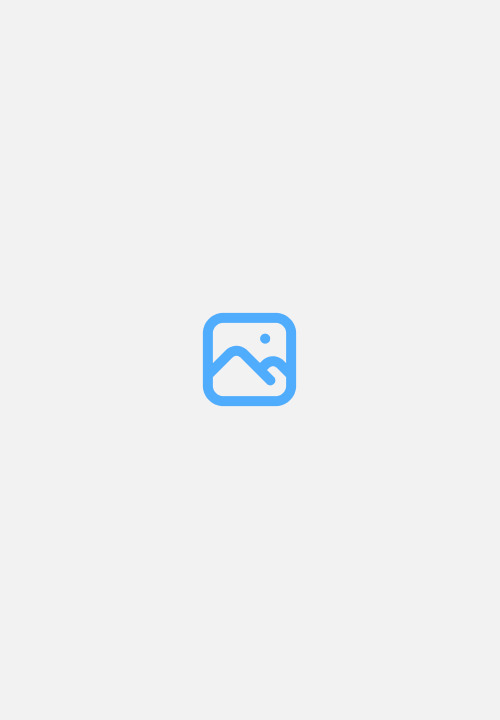
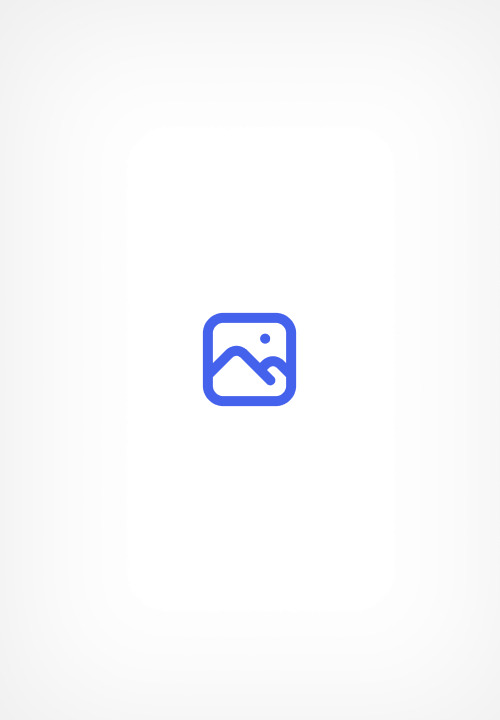
Dev: add styles

Changed region(s): [[0.39, 0.4278, 0.6, 0.5806]]

diff --git a/lib/search/search_delegate.dart b/lib/search/search_delegate.dart
@@ -1,5 +1,4 @@
 import 'package:flutter/material.dart';
-import 'package:movies_app/theme/app_theme.dart';
 import 'package:movies_app/providers/movie_provider.dart';
 import 'package:provider/provider.dart';
 import 'package:movies_app/models/models.dart';
@@ -12,7 +11,7 @@ class MovieSearchDelegate extends SearchDelegate {
   List<Widget> buildActions(BuildContext context) {
     return [
       IconButton(
-        icon: Icon(Icons.clear),
+        icon: const Icon(Icons.clear),
         onPressed: () => query = '',
       )
     ];
@@ -22,29 +21,23 @@ class MovieSearchDelegate extends SearchDelegate {
   Widget buildLeading(BuildContext context) {
     return IconButton(
       onPressed: () => close(context, null),
-      icon: Icon(Icons.arrow_back_rounded),
+      icon: const Icon(Icons.arrow_back_rounded),
     );
   }
 
   @override
   Widget buildResults(BuildContext context) {
     return Text("my build results",
-        style: TextStyle(color: AppTheme.gray));
+        style: Theme.of(context).textTheme.bodyText1);
   }
 
   Widget _emptyContainer() {
-    return Column(
-      children: const[
-        Center(
-          child: Icon(
-            Icons.movie_creation_outlined,
-            color: Colors.black38,
-            size: 130.0,
-          ),
-
-        ),
-        Text("No escribiste nada")
-      ],
+    return const Center(
+      child: Icon(
+        Icons.movie_creation_outlined,
+        color: Colors.black38,
+        size: 130.0,
+      ),
     );
   }
 
@@ -55,48 +48,42 @@ class MovieSearchDelegate extends SearchDelegate {
     }
 
     final moviesProvider = Provider.of<MoviesProvider>(context, listen: false);
-    
-  
+
     return FutureBuilder(
       future: moviesProvider.searchMovies(query),
       builder: (_, AsyncSnapshot<List<Result>> snapshot) {
-        print(snapshot);
         if (!snapshot.hasData) {
           return _emptyContainer();
-        }else{
-	  final movies = snapshot.data!;
+        } else {
+          final movies = snapshot.data!;
           return ListView.builder(
-	    itemBuilder: (context, index)=> _MovieItem(movies[index]),
-	    itemCount: movies.length,
-	  );
+            itemBuilder: (context, index) => _MovieItem(movies[index]),
+            itemCount: movies.length,
+          );
         }
       },
     );
   }
 }
 
-class _MovieItem extends StatelessWidget{
+class _MovieItem extends StatelessWidget {
   final Result movie;
   const _MovieItem(this.movie);
 
   @override
-  Widget build(BuildContext context){
+  Widget build(BuildContext context) {
     return ListTile(
-        leading: FadeInImage(
-	  placeholder: AssetImage("assets/no-image.jpg"),
-	  image: NetworkImage( movie.fullPosterImg),
-	  width: 50.0,
-	  fit: BoxFit.contain,
-
-	),
-
-	title: Text(movie.title!),
-	subtitle: Text ( movie.originalTitle!),
-	onTap: (){
-	  Navigator.pushNamed(context, 'details', arguments: movie);
-	},
+      leading: FadeInImage(
+        placeholder: const AssetImage("assets/no-image.jpg"),
+        image: NetworkImage(movie.fullPosterImg),
+        width: 50.0,
+        fit: BoxFit.contain,
+      ),
+      title: Text(movie.title!,style: Theme.of(context).textTheme.subtitle1,),
+      subtitle: Text(movie.originalTitle!, style: Theme.of(context).textTheme.bodyText1,),
+      onTap: () {
+        Navigator.pushNamed(context, 'details', arguments: movie);
+      },
     );
   }
-
-
 }

diff --git a/lib/screens/details_screen.dart b/lib/screens/details_screen.dart
@@ -1,6 +1,7 @@
 import 'package:flutter/material.dart';
 import 'package:movies_app/models/models.dart';
 import '../widgets/widgets.dart';
+import 'package:movies_app/theme/app_theme.dart';
 
 class DetailsScreen extends StatelessWidget {
    
@@ -45,7 +46,7 @@ class _Overview extends StatelessWidget {
       padding: const EdgeInsets.symmetric(horizontal: 30.0,vertical: 10.0),
       child: Text(descriptionMovie,
       textAlign: TextAlign.justify,
-      style: Theme.of(context).textTheme.subtitle1,
+      style: Theme.of(context).textTheme.bodyText1,
       ),
     );
   }
@@ -85,20 +86,20 @@ class _PosterAndTitle extends StatelessWidget {
                 children: [
                   Text(
                     movieText,
-                    style: textTheme.headline5,
+                    style: textTheme.subtitle1,
                     overflow: TextOverflow.ellipsis,
                     maxLines: 2,
                   ),
                   Text(
                     titleMovie,
-                    style: textTheme.subtitle1,
+                    style: textTheme.bodyText1,
                     overflow: TextOverflow.ellipsis
                   ),
                   Row(
                     children: [
                       const Icon(Icons.star_outline, size: 15,color: Colors.grey,),
                       const SizedBox(width: 10.0,),
-                      Text("$voteMovie",style:textTheme.caption)
+                      Text("$voteMovie",style:textTheme.caption,)
                     ],
                   )
                 ],
@@ -122,7 +123,7 @@ class _CustomAppBar extends StatelessWidget {
   @override
   Widget build(BuildContext context) {
     return SliverAppBar(
-      backgroundColor: Colors.indigo,
+      backgroundColor: AppTheme.black,
       expandedHeight: 200.0,
       floating: false,
       pinned: true,
@@ -131,11 +132,11 @@ class _CustomAppBar extends StatelessWidget {
         titlePadding: const EdgeInsets.all(0.0),
         title: Container(
           width: double.infinity,
-          color: Colors.black12,
+          color: Colors.black38,
           alignment: Alignment.bottomCenter,
           child: Text(
             titleMovie!,
-            style: const TextStyle(fontSize: 16, ),
+            style: Theme.of(context).textTheme.headline1,
             textAlign: TextAlign.center,
           )
         ),

diff --git a/lib/theme/app_theme.dart b/lib/theme/app_theme.dart
@@ -4,10 +4,11 @@ class AppTheme{
   static const Color black = Color(0xff333333);
   static const Color gray = Color(0xff495057);
   static const Color white = Colors.white;
-  static const Color skyBlue = Color(0xff5390d9);
+  static const Color whitePale = Color(0xffe9ecef);
+  static const Color skyBlue = Color(0xff4361ee);
   static const Color blackBlue = Color(0xff1b263b);
-  static final ThemeData configTheme = ThemeData.dark().copyWith(
-    scaffoldBackgroundColor: black.withOpacity(0.5),
+  static final ThemeData configTheme = ThemeData.light().copyWith(
+    scaffoldBackgroundColor: white,
     appBarTheme: const AppBarTheme(
       elevation: 0,
       color: skyBlue
@@ -17,14 +18,14 @@ class AppTheme{
     headline2: TextStyle(fontFamily: fontFamily, fontSize: 16, fontWeight: FontWeight.bold, color:black),
     headline3: TextStyle(fontFamily: fontFamily, fontSize: 16, fontWeight: FontWeight.bold, color:black),
     headline4: TextStyle(fontFamily: fontFamily, fontSize: 16, fontWeight: FontWeight.bold, color:black),
-    headline5: TextStyle(fontFamily: fontFamily, fontSize: 20, fontWeight: FontWeight.bold, color:black),
+    headline5: TextStyle(fontFamily: fontFamily, fontSize: 20, fontWeight: FontWeight.w800, color:black),
     headline6: TextStyle(fontFamily: fontFamily, fontSize: 16, fontWeight: FontWeight.bold, color:black),
     bodyText1: TextStyle(fontFamily: fontFamily, fontSize: 14, color:gray),
     bodyText2: TextStyle(fontFamily: fontFamily, fontSize: 14, color:gray),
     caption: TextStyle(fontFamily: fontFamily, fontSize: 14, color:black),
     button: TextStyle(fontFamily: fontFamily, fontSize: 14, color:black),
-    subtitle1: TextStyle(fontFamily: fontFamily, fontSize: 14, color:black),
-    subtitle2: TextStyle(fontFamily: fontFamily, fontSize: 14, color:black),
+    subtitle1: TextStyle(fontFamily: fontFamily, fontSize: 16, color:black,fontWeight: FontWeight.w700),
+    subtitle2: TextStyle(fontFamily: fontFamily, fontSize: 14, color:black,fontWeight: FontWeight.w700),
     overline: TextStyle(fontFamily: fontFamily, fontSize: 14, color:black),
     ),
       
